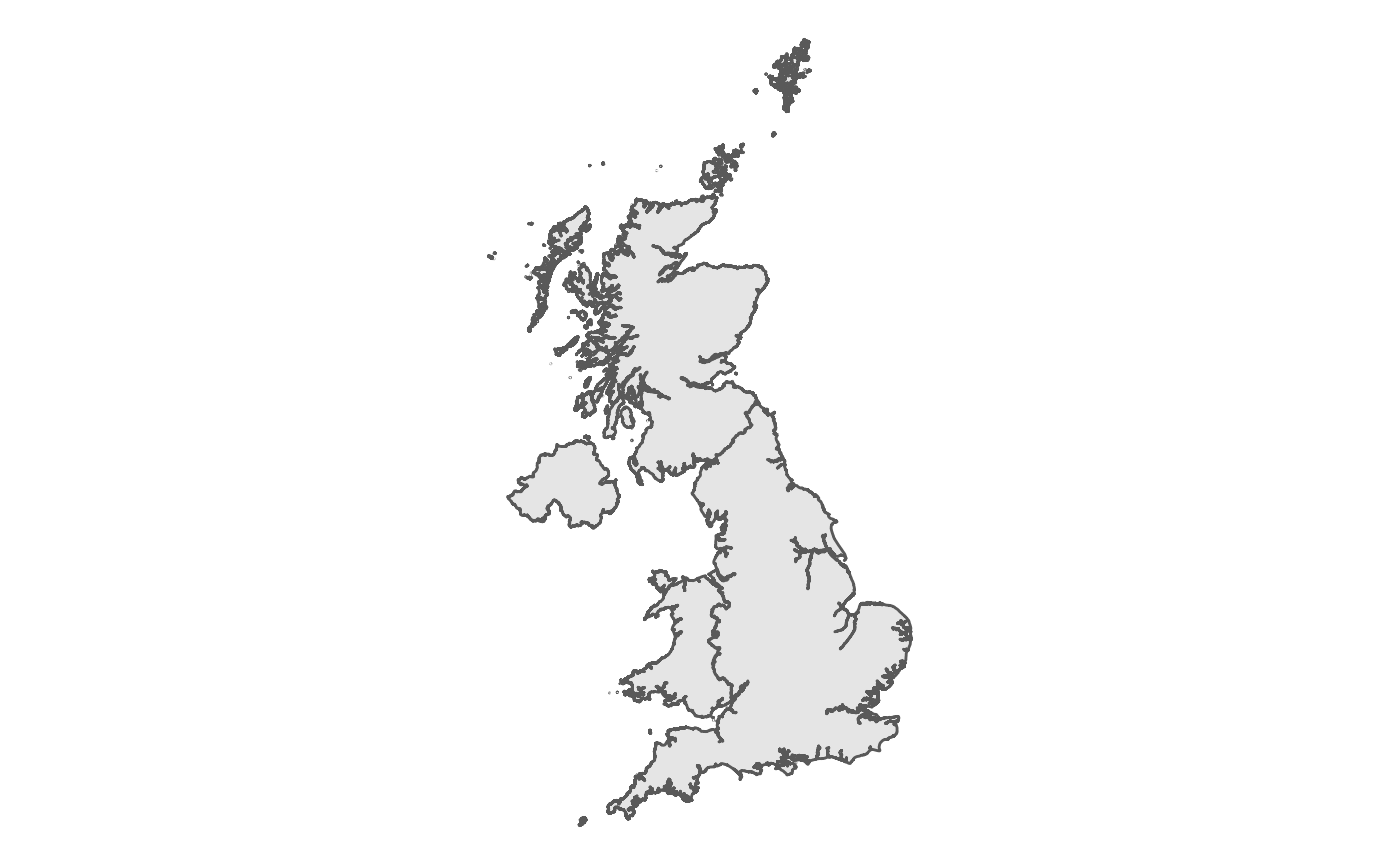
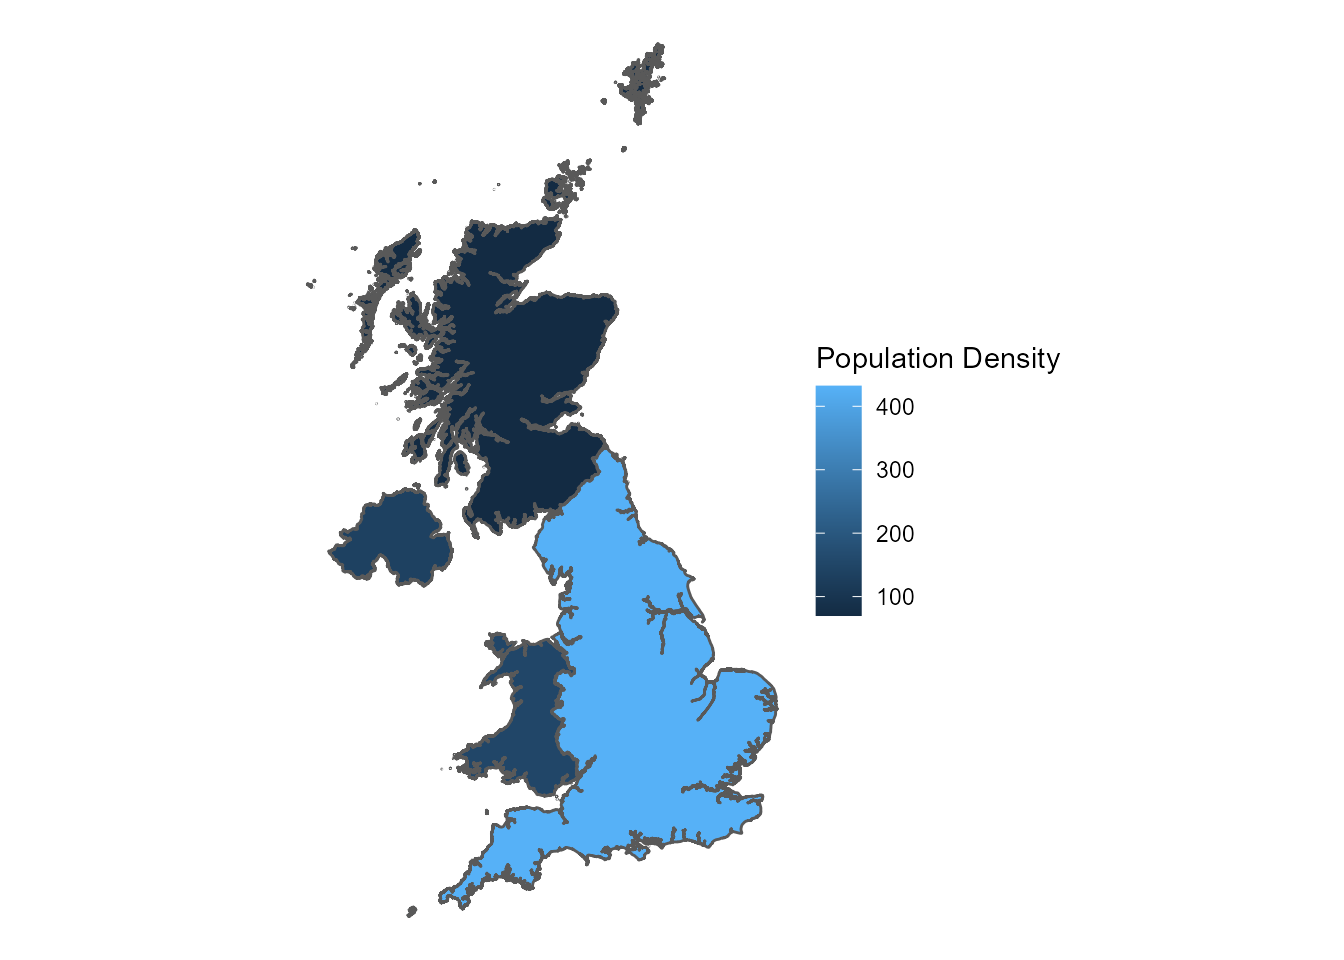
UPDATE: drawing maps vignette

Changed region(s): [[0.25, 0.1561, 0.7812, 0.9676], [0.5312, 0.0312, 0.5938, 0.1249], [0.4375, 0.0312, 0.5, 0.1249]]

diff --git a/docs/articles/maps.html b/docs/articles/maps.html
@@ -5,13 +5,13 @@
 <meta charset="utf-8">
 <meta http-equiv="X-UA-Compatible" content="IE=edge">
 <meta name="viewport" content="width=device-width, initial-scale=1.0">
-<title>Using `ukgeog` to draw maps • ukgeog</title>
+<title>Using `ukgeog` to draw choropleth maps • ukgeog</title>
 <!-- jquery --><script src="https://cdnjs.cloudflare.com/ajax/libs/jquery/3.4.1/jquery.min.js" integrity="sha256-CSXorXvZcTkaix6Yvo6HppcZGetbYMGWSFlBw8HfCJo=" crossorigin="anonymous"></script><!-- Bootstrap --><link rel="stylesheet" href="https://cdnjs.cloudflare.com/ajax/libs/twitter-bootstrap/3.4.1/css/bootstrap.min.css" integrity="sha256-bZLfwXAP04zRMK2BjiO8iu9pf4FbLqX6zitd+tIvLhE=" crossorigin="anonymous">
 <script src="https://cdnjs.cloudflare.com/ajax/libs/twitter-bootstrap/3.4.1/js/bootstrap.min.js" integrity="sha256-nuL8/2cJ5NDSSwnKD8VqreErSWHtnEP9E7AySL+1ev4=" crossorigin="anonymous"></script><!-- bootstrap-toc --><link rel="stylesheet" href="../bootstrap-toc.css">
 <script src="../bootstrap-toc.js"></script><!-- Font Awesome icons --><link rel="stylesheet" href="https://cdnjs.cloudflare.com/ajax/libs/font-awesome/5.12.1/css/all.min.css" integrity="sha256-mmgLkCYLUQbXn0B1SRqzHar6dCnv9oZFPEC1g1cwlkk=" crossorigin="anonymous">
 <link rel="stylesheet" href="https://cdnjs.cloudflare.com/ajax/libs/font-awesome/5.12.1/css/v4-shims.min.css" integrity="sha256-wZjR52fzng1pJHwx4aV2AO3yyTOXrcDW7jBpJtTwVxw=" crossorigin="anonymous">
 <!-- clipboard.js --><script src="https://cdnjs.cloudflare.com/ajax/libs/clipboard.js/2.0.6/clipboard.min.js" integrity="sha256-inc5kl9MA1hkeYUt+EC3BhlIgyp/2jDIyBLS6k3UxPI=" crossorigin="anonymous"></script><!-- headroom.js --><script src="https://cdnjs.cloudflare.com/ajax/libs/headroom/0.11.0/headroom.min.js" integrity="sha256-AsUX4SJE1+yuDu5+mAVzJbuYNPHj/WroHuZ8Ir/CkE0=" crossorigin="anonymous"></script><script src="https://cdnjs.cloudflare.com/ajax/libs/headroom/0.11.0/jQuery.headroom.min.js" integrity="sha256-ZX/yNShbjqsohH1k95liqY9Gd8uOiE1S4vZc+9KQ1K4=" crossorigin="anonymous"></script><!-- pkgdown --><link href="../pkgdown.css" rel="stylesheet">
-<script src="../pkgdown.js"></script><meta property="og:title" content="Using `ukgeog` to draw maps">
+<script src="../pkgdown.js"></script><meta property="og:title" content="Using `ukgeog` to draw choropleth maps">
 <meta property="og:description" content="ukgeog">
 <!-- mathjax --><script src="https://cdnjs.cloudflare.com/ajax/libs/mathjax/2.7.5/MathJax.js" integrity="sha256-nvJJv9wWKEm88qvoQl9ekL2J+k/RWIsaSScxxlsrv8k=" crossorigin="anonymous"></script><script src="https://cdnjs.cloudflare.com/ajax/libs/mathjax/2.7.5/config/TeX-AMS-MML_HTMLorMML.js" integrity="sha256-84DKXVJXs0/F8OTMzX4UR909+jtl4G7SPypPavF+GfA=" crossorigin="anonymous"></script><!--[if lt IE 9]>
 <script src="https://oss.maxcdn.com/html5shiv/3.7.3/html5shiv.min.js"></script>
@@ -57,7 +57,7 @@
       <a href="../articles/boundary-changes.html">LA Boundary Changes</a>
     </li>
     <li>
-      <a href="../articles/maps.html">Using `ukgeog` to draw maps</a>
+      <a href="../articles/maps.html">Using `ukgeog` to draw choropleth maps</a>
     </li>
     <li>
       <a href="../articles/ons-hierarchy.html">ONS Hierarchy of UK Statistical Geographies</a>
@@ -89,7 +89,7 @@
 <script src="maps_files/anchor-sections-1.0/anchor-sections.js"></script><div class="row">
   <div class="col-md-9 contents">
     <div class="page-header toc-ignore">
-      <h1 data-toc-skip>Using <code>ukgeog</code> to draw maps</h1>
+      <h1 data-toc-skip>Using <code>ukgeog</code> to draw choropleth maps</h1>
             
       
       <small class="dont-index">Source: <a href="https://github.com/l-hodge/ukgeog/blob/master/vignettes/maps.Rmd"><code>vignettes/maps.Rmd</code></a></small>
@@ -99,48 +99,70 @@
 
     
     
-<p><code>ukgeog</code> provides several <code>read</code> functions to provide the ability to easily download official spatial data sets of the UK as simple feature (<code>sf</code>) objects. A full list of the geographies available is provided <a href="https://l-hodge.github.io/uk-geog/">here</a>. Here we demonstrate how this makes it easy to make choropleth maps with base R, as well as with popular packages such as <code>ggplot2</code>, <code>tmap</code> and <code>leaflet.</code></p>
+<p><code>ukgeog</code> provides several <code>read_*</code> functions to provide the ability to easily download official spatial data sets of the UK as simple feature (<code>sf</code>) objects. A full list of the geographies available is provided <a href="https://l-hodge.github.io/uk-geog/">here</a>. Here we demonstrate how this makes it easy to make choropleth maps with base R, as well as with popular packages such as <code>ggplot2</code>, <code>tmap</code> and <code>leaflet.</code></p>
 <p>First we need to read in a spatial dataset as a simple feature (<code>sf</code>), here we choose to make use of <code>read_admin</code> to read in the countries that make up the UK:</p>
 <div class="sourceCode" id="cb1"><pre class="downlit">
-<span class="kw"><a href="https://rdrr.io/r/base/library.html">library</a></span><span class="op">(</span><span class="va"><a href="https://l-hodge.github.io/uk-geog/">ukgeog</a></span><span class="op">)</span>
+<span class="kw"><a href="https://rdrr.io/r/base/library.html">library</a></span><span class="op">(</span><span class="va"><a href="https://l-hodge.github.io/ukgeog/">ukgeog</a></span><span class="op">)</span>
 
 <span class="va">sf</span> <span class="op">&lt;-</span> <span class="fu"><a href="../reference/read_admin.html">read_admin</a></span><span class="op">(</span><span class="st">"NAT"</span><span class="op">)</span></pre></div>
-<p>Note: <code>crs = 4326</code> (the default) provides the most capatibility with other functions</p>
-<div id="drawing-maps-with-your-simple-feature" class="section level2">
+<p>Note: <code>crs = 4326</code> (the default) provides the most compatibility with other functions.</p>
+<div id="drawing-a-choropleth-map-with-a-simple-feature" class="section level2">
 <h2 class="hasAnchor">
-<a href="#drawing-maps-with-your-simple-feature" class="anchor"></a>Drawing maps with your simple feature</h2>
-<div id="plot-" class="section level3">
-<h3 class="hasAnchor">
-<a href="#plot-" class="anchor"></a>-plot-</h3>
+<a href="#drawing-a-choropleth-map-with-a-simple-feature" class="anchor"></a>Drawing a choropleth map with a simple feature</h2>
+<p>We first merge in mid-2019 population density estimates from the <a href="https://www.ons.gov.uk/peoplepopulationandcommunity/populationandmigration/populationestimates/bulletins/annualmidyearpopulationestimates/mid2019estimates#population-growth-in-england-wales-scotland-and-northern-ireland">ONS</a>, so we have something to plot:</p>
 <div class="sourceCode" id="cb2"><pre class="downlit">
-<span class="fu"><a href="https://rdrr.io/r/graphics/plot.default.html">plot</a></span><span class="op">(</span><span class="va">sf</span><span class="op">$</span><span class="va">geometry</span><span class="op">)</span></pre></div>
-<p><img src="maps_files/figure-html/plotexample-1.png" width="700"></p>
-</div>
-<div id="ggplot2-" class="section level3">
+<span class="va">population</span> <span class="op">&lt;-</span> <span class="fu"><a href="https://rdrr.io/r/base/data.frame.html">data.frame</a></span><span class="op">(</span>
+                country <span class="op">=</span> <span class="fu"><a href="https://rdrr.io/r/base/c.html">c</a></span><span class="op">(</span><span class="st">"England"</span>, <span class="st">"Wales"</span>, <span class="st">"Scotland"</span>, <span class="st">"Northern Ireland"</span><span class="op">)</span>,
+                `Population Density` <span class="op">=</span> <span class="fu"><a href="https://rdrr.io/r/base/numeric.html">as.numeric</a></span><span class="op">(</span><span class="fu"><a href="https://rdrr.io/r/base/c.html">c</a></span><span class="op">(</span><span class="st">"432"</span>, <span class="st">"152"</span>, <span class="st">"70"</span>, <span class="st">"137"</span><span class="op">)</span><span class="op">)</span>,
+                check.names <span class="op">=</span> <span class="cn">FALSE</span>
+              <span class="op">)</span>
+
+<span class="va">sf</span> <span class="op">&lt;-</span> <span class="fu">dplyr</span><span class="fu">::</span><span class="fu"><a href="https://dplyr.tidyverse.org/reference/mutate-joins.html">left_join</a></span><span class="op">(</span><span class="va">sf</span>, <span class="va">population</span>, by <span class="op">=</span> <span class="st">"country"</span><span class="op">)</span></pre></div>
+<p>Now we plot some choropleth maps with both base R and some easier to use packages:</p>
+<div id="base-r-plot" class="section level3">
 <h3 class="hasAnchor">
-<a href="#ggplot2-" class="anchor"></a>-ggplot2-</h3>
+<a href="#base-r-plot" class="anchor"></a>base R (<code>plot</code>)</h3>
 <div class="sourceCode" id="cb3"><pre class="downlit">
+<span class="va">cols</span> <span class="op">&lt;-</span> <span class="fu"><a href="https://rdrr.io/r/base/c.html">c</a></span><span class="op">(</span><span class="st">"#EDF8E9"</span>, <span class="st">"#BAE4B3"</span>, <span class="st">"#74C476"</span>, <span class="st">"#31A354"</span>, <span class="st">"#006D2C"</span><span class="op">)</span>
+<span class="va">brks</span> <span class="op">&lt;-</span> <span class="fu"><a href="https://rdrr.io/r/base/c.html">c</a></span><span class="op">(</span><span class="fl">0</span>, <span class="fl">100</span>, <span class="fl">200</span>, <span class="fl">300</span>, <span class="fl">400</span>, <span class="fl">500</span><span class="op">)</span>
+<span class="va">col</span> <span class="op">&lt;-</span> <span class="va">cols</span><span class="op">[</span><span class="fu"><a href="https://rdrr.io/r/base/findInterval.html">findInterval</a></span><span class="op">(</span><span class="va">sf</span><span class="op">$</span><span class="va">`Population Density`</span>, vec <span class="op">=</span> <span class="va">brks</span><span class="op">)</span><span class="op">]</span>
+
+<span class="fu"><a href="https://rdrr.io/r/graphics/plot.default.html">plot</a></span><span class="op">(</span><span class="va">sf</span><span class="op">$</span><span class="va">geometry</span>, col <span class="op">=</span> <span class="va">col</span><span class="op">)</span>
+<span class="fu"><a href="https://rdrr.io/r/graphics/legend.html">legend</a></span><span class="op">(</span><span class="st">"bottomleft"</span>, 
+       legend <span class="op">=</span> <span class="fu"><a href="https://rdrr.io/r/base/levels.html">levels</a></span><span class="op">(</span><span class="fu"><a href="https://rdrr.io/r/base/cut.html">cut</a></span><span class="op">(</span><span class="va">sf</span><span class="op">$</span><span class="va">`Population Density`</span>, <span class="va">brks</span><span class="op">)</span><span class="op">)</span>, 
+       fill <span class="op">=</span> <span class="va">cols</span>, 
+       title <span class="op">=</span> <span class="st">"Population Density"</span><span class="op">)</span></pre></div>
+<p><img src="maps_files/figure-html/plotexample-1.png" width="672"></p>
+</div>
+<div id="ggplot2" class="section level3">
+<h3 class="hasAnchor">
+<a href="#ggplot2" class="anchor"></a><code>ggplot2</code>
+</h3>
+<div class="sourceCode" id="cb4"><pre class="downlit">
 <span class="kw"><a href="https://rdrr.io/r/base/library.html">library</a></span><span class="op">(</span><span class="va"><a href="http://ggplot2.tidyverse.org">ggplot2</a></span><span class="op">)</span>
 
 <span class="fu"><a href="https://ggplot2.tidyverse.org/reference/ggplot.html">ggplot</a></span><span class="op">(</span><span class="va">sf</span><span class="op">)</span> <span class="op">+</span> 
-  <span class="fu"><a href="https://ggplot2.tidyverse.org/reference/ggsf.html">geom_sf</a></span><span class="op">(</span><span class="op">)</span> <span class="op">+</span>
+  <span class="fu"><a href="https://ggplot2.tidyverse.org/reference/ggsf.html">geom_sf</a></span><span class="op">(</span><span class="fu"><a href="https://ggplot2.tidyverse.org/reference/aes.html">aes</a></span><span class="op">(</span>fill <span class="op">=</span> <span class="va">`Population Density`</span><span class="op">)</span><span class="op">)</span> <span class="op">+</span>
   <span class="fu"><a href="https://ggplot2.tidyverse.org/reference/ggtheme.html">theme_void</a></span><span class="op">(</span><span class="op">)</span></pre></div>
-<p><img src="maps_files/figure-html/ggplotexample-1.png" width="700"></p>
+<p><img src="maps_files/figure-html/ggplotexample-1.png" width="672"></p>
 </div>
-<div id="tmap-" class="section level3">
+<div id="tmap" class="section level3">
 <h3 class="hasAnchor">
-<a href="#tmap-" class="anchor"></a>-tmap-</h3>
-<div class="sourceCode" id="cb4"><pre class="downlit">
+<a href="#tmap" class="anchor"></a><code>tmap</code>
+</h3>
+<div class="sourceCode" id="cb5"><pre class="downlit">
 <span class="kw"><a href="https://rdrr.io/r/base/library.html">library</a></span><span class="op">(</span><span class="va"><a href="https://github.com/mtennekes/tmap">tmap</a></span><span class="op">)</span>
 
-<span class="fu"><a href="https://rdrr.io/pkg/tmap/man/qtm.html">qtm</a></span><span class="op">(</span><span class="va">sf</span><span class="op">)</span>
+<span class="fu"><a href="https://rdrr.io/pkg/tmap/man/qtm.html">qtm</a></span><span class="op">(</span><span class="va">sf</span>, fill <span class="op">=</span> <span class="st">"Population Density"</span><span class="op">)</span> <span class="op">+</span>
+  <span class="fu"><a href="https://rdrr.io/pkg/tmap/man/tm_layout.html">tm_legend</a></span><span class="op">(</span>legend.position <span class="op">=</span> <span class="fu"><a href="https://rdrr.io/r/base/c.html">c</a></span><span class="op">(</span><span class="st">"left"</span>, <span class="st">"top"</span><span class="op">)</span><span class="op">)</span>
 <span class="co">#&gt; Linking to GEOS 3.8.0, GDAL 3.0.4, PROJ 6.3.1</span></pre></div>
-<p><img src="maps_files/figure-html/tmapexample-1.png" width="700"></p>
+<p><img src="maps_files/figure-html/tmapexample-1.png" width="672"></p>
 </div>
-<div id="leaflet-" class="section level3">
+<div id="leaflet" class="section level3">
 <h3 class="hasAnchor">
-<a href="#leaflet-" class="anchor"></a>-leaflet-</h3>
-<div class="sourceCode" id="cb5"><pre class="downlit">
+<a href="#leaflet" class="anchor"></a><code>leaflet</code>
+</h3>
+<div class="sourceCode" id="cb6"><pre class="downlit">
 <span class="kw"><a href="https://rdrr.io/r/base/library.html">library</a></span><span class="op">(</span><span class="va"><a href="http://rstudio.github.io/leaflet/">leaflet</a></span><span class="op">)</span>
 
 <span class="fu"><a href="https://rdrr.io/pkg/leaflet/man/leaflet.html">leaflet</a></span><span class="op">(</span><span class="va">sf</span><span class="op">)</span> <span class="op">%&gt;%</span> 

diff --git a/docs/reference/read_census.html b/docs/reference/read_census.html
@@ -98,7 +98,7 @@
       <a href="../articles/boundary-changes.html">LA Boundary Changes</a>
     </li>
     <li>
-      <a href="../articles/maps.html">Using `ukgeog` to draw maps</a>
+      <a href="../articles/maps.html">Using `ukgeog` to draw choropleth maps</a>
     </li>
     <li>
       <a href="../articles/ons-hierarchy.html">ONS Hierarchy of UK Statistical Geographies</a>
@@ -188,28 +188,28 @@
 #&gt; bbox:           xmin: -6.418524 ymin: 49.86474 xmax: 1.762942 ymax: 55.81107
 #&gt; geographic CRS: WGS 84
 #&gt; First 10 features:
-#&gt;    objectid        cd                       nm                msoa11nmw
-#&gt; 1         1 E02000001       City of London 001       City of London 001
-#&gt; 2         2 E02000002 Barking and Dagenham 001 Barking and Dagenham 001
-#&gt; 3         3 E02000003 Barking and Dagenham 002 Barking and Dagenham 002
-#&gt; 4         4 E02000004 Barking and Dagenham 003 Barking and Dagenham 003
-#&gt; 5         5 E02000005 Barking and Dagenham 004 Barking and Dagenham 004
-#&gt; 6         6 E02000007 Barking and Dagenham 006 Barking and Dagenham 006
-#&gt; 7         7 E02000008 Barking and Dagenham 007 Barking and Dagenham 007
-#&gt; 8         8 E02000009 Barking and Dagenham 008 Barking and Dagenham 008
-#&gt; 9         9 E02000010 Barking and Dagenham 009 Barking and Dagenham 009
-#&gt; 10       10 E02000011 Barking and Dagenham 010 Barking and Dagenham 010
-#&gt;    st_area.shape. st_length.shape. country                       geometry
-#&gt; 1         2905399         9024.060 England MULTIPOLYGON (((-0.09675966...
-#&gt; 2         2165634         8152.698 England MULTIPOLYGON (((0.1481122 5...
-#&gt; 3         2143565         9118.449 England MULTIPOLYGON (((0.150653 51...
-#&gt; 4         2490215         8207.610 England MULTIPOLYGON (((0.1851074 5...
-#&gt; 5         1186180         6964.962 England MULTIPOLYGON (((0.1499051 5...
-#&gt; 6         1733916         6773.957 England MULTIPOLYGON (((0.1600451 5...
-#&gt; 7         1419309         8427.797 England MULTIPOLYGON (((0.136055 51...
-#&gt; 8          965622         5958.160 England MULTIPOLYGON (((0.1169839 5...
-#&gt; 9         1120326         7651.809 England MULTIPOLYGON (((0.156482 51...
-#&gt; 10        1602157         7770.863 England MULTIPOLYGON (((0.1656968 5...</div><div class='input'>
+#&gt;    objectd        cd                       nm                  ms11nmw st_r_s_
+#&gt; 1        1 E02000001       City of London 001       City of London 001 2905399
+#&gt; 2        2 E02000002 Barking and Dagenham 001 Barking and Dagenham 001 2165634
+#&gt; 3        3 E02000003 Barking and Dagenham 002 Barking and Dagenham 002 2143565
+#&gt; 4        4 E02000004 Barking and Dagenham 003 Barking and Dagenham 003 2490215
+#&gt; 5        5 E02000005 Barking and Dagenham 004 Barking and Dagenham 004 1186180
+#&gt; 6        6 E02000007 Barking and Dagenham 006 Barking and Dagenham 006 1733916
+#&gt; 7        7 E02000008 Barking and Dagenham 007 Barking and Dagenham 007 1419309
+#&gt; 8        8 E02000009 Barking and Dagenham 008 Barking and Dagenham 008  965622
+#&gt; 9        9 E02000010 Barking and Dagenham 009 Barking and Dagenham 009 1120326
+#&gt; 10      10 E02000011 Barking and Dagenham 010 Barking and Dagenham 010 1602157
+#&gt;     st_ln__ country                       geometry
+#&gt; 1  9024.060 England MULTIPOLYGON (((-0.09675966...
+#&gt; 2  8152.698 England MULTIPOLYGON (((0.1481122 5...
+#&gt; 3  9118.449 England MULTIPOLYGON (((0.150653 51...
+#&gt; 4  8207.610 England MULTIPOLYGON (((0.1851074 5...
+#&gt; 5  6964.962 England MULTIPOLYGON (((0.1499051 5...
+#&gt; 6  6773.957 England MULTIPOLYGON (((0.1600451 5...
+#&gt; 7  8427.797 England MULTIPOLYGON (((0.136055 51...
+#&gt; 8  5958.160 England MULTIPOLYGON (((0.1169839 5...
+#&gt; 9  7651.809 England MULTIPOLYGON (((0.156482 51...
+#&gt; 10 7770.863 England MULTIPOLYGON (((0.1656968 5...</div><div class='input'>
 <span class='kw'>if</span> <span class='op'>(</span><span class='cn'>FALSE</span><span class='op'>)</span> <span class='op'>{</span>
 <span class='fu'>read_census</span><span class='op'>(</span><span class='st'>"OA"</span>, nations <span class='op'>=</span> <span class='fu'><a href='https://rdrr.io/r/base/c.html'>c</a></span><span class='op'>(</span><span class='st'>"E"</span><span class='op'>)</span><span class='op'>)</span>
 <span class='op'>}</span>

diff --git a/docs/index.html b/docs/index.html
@@ -59,7 +59,7 @@
       <a href="articles/boundary-changes.html">LA Boundary Changes</a>
     </li>
     <li>
-      <a href="articles/maps.html">Using `ukgeog` to draw maps</a>
+      <a href="articles/maps.html">Using `ukgeog` to draw choropleth maps</a>
     </li>
     <li>
       <a href="articles/ons-hierarchy.html">ONS Hierarchy of UK Statistical Geographies</a>
@@ -111,7 +111,7 @@
 <h2 class="hasAnchor">
 <a href="#basic-usage" class="anchor"></a>Basic Usage</h2>
 <div class="sourceCode" id="cb2"><pre class="downlit">
-<span class="kw"><a href="https://rdrr.io/r/base/library.html">library</a></span><span class="op">(</span><span class="va"><a href="https://l-hodge.github.io/uk-geog/">ukgeog</a></span><span class="op">)</span>
+<span class="kw"><a href="https://rdrr.io/r/base/library.html">library</a></span><span class="op">(</span><span class="va"><a href="https://l-hodge.github.io/ukgeog/">ukgeog</a></span><span class="op">)</span>
 
 <span class="co"># Read in simple feature data frame of the countries that make up the UK </span>
 <span class="va">sf</span> <span class="op">&lt;-</span> <span class="fu"><a href="reference/read_admin.html">read_admin</a></span><span class="op">(</span><span class="st">"NAT"</span><span class="op">)</span></pre></div>

diff --git a/docs/articles/index.html b/docs/articles/index.html
@@ -97,7 +97,7 @@
       <a href="../articles/boundary-changes.html">LA Boundary Changes</a>
     </li>
     <li>
-      <a href="../articles/maps.html">Using `ukgeog` to draw maps</a>
+      <a href="../articles/maps.html">Using `ukgeog` to draw choropleth maps</a>
     </li>
     <li>
       <a href="../articles/ons-hierarchy.html">ONS Hierarchy of UK Statistical Geographies</a>
@@ -138,7 +138,7 @@
       <dl>
         <dt><a href="boundary-changes.html">LA Boundary Changes</a></dt>
         <dd></dt>
-        <dt><a href="maps.html">Using `ukgeog` to draw maps</a></dt>
+        <dt><a href="maps.html">Using `ukgeog` to draw choropleth maps</a></dt>
         <dd></dt>
         <dt><a href="ons-hierarchy.html">ONS Hierarchy of UK Statistical Geographies</a></dt>
         <dd></dt>

diff --git a/docs/reference/within_yr_lookup.html b/docs/reference/within_yr_lookup.html
@@ -101,7 +101,7 @@ Simple wrapper for `create_lookup`" />
       <a href="../articles/boundary-changes.html">LA Boundary Changes</a>
     </li>
     <li>
-      <a href="../articles/maps.html">Using `ukgeog` to draw maps</a>
+      <a href="../articles/maps.html">Using `ukgeog` to draw choropleth maps</a>
     </li>
     <li>
       <a href="../articles/ons-hierarchy.html">ONS Hierarchy of UK Statistical Geographies</a>

diff --git a/docs/reference/create_lookup.html b/docs/reference/create_lookup.html
@@ -101,7 +101,7 @@ Wrapper for `plus_year`" />
       <a href="../articles/boundary-changes.html">LA Boundary Changes</a>
     </li>
     <li>
-      <a href="../articles/maps.html">Using `ukgeog` to draw maps</a>
+      <a href="../articles/maps.html">Using `ukgeog` to draw choropleth maps</a>
     </li>
     <li>
       <a href="../articles/ons-hierarchy.html">ONS Hierarchy of UK Statistical Geographies</a>

diff --git a/docs/articles/boundary-changes.html b/docs/articles/boundary-changes.html
@@ -57,7 +57,7 @@
       <a href="../articles/boundary-changes.html">LA Boundary Changes</a>
     </li>
     <li>
-      <a href="../articles/maps.html">Using `ukgeog` to draw maps</a>
+      <a href="../articles/maps.html">Using `ukgeog` to draw choropleth maps</a>
     </li>
     <li>
       <a href="../articles/ons-hierarchy.html">ONS Hierarchy of UK Statistical Geographies</a>

diff --git a/docs/articles/ons-hierarchy.html b/docs/articles/ons-hierarchy.html
@@ -57,7 +57,7 @@
       <a href="../articles/boundary-changes.html">LA Boundary Changes</a>
     </li>
     <li>
-      <a href="../articles/maps.html">Using `ukgeog` to draw maps</a>
+      <a href="../articles/maps.html">Using `ukgeog` to draw choropleth maps</a>
     </li>
     <li>
       <a href="../articles/ons-hierarchy.html">ONS Hierarchy of UK Statistical Geographies</a>

diff --git a/docs/news/index.html b/docs/news/index.html
@@ -97,7 +97,7 @@
       <a href="../articles/boundary-changes.html">LA Boundary Changes</a>
     </li>
     <li>
-      <a href="../articles/maps.html">Using `ukgeog` to draw maps</a>
+      <a href="../articles/maps.html">Using `ukgeog` to draw choropleth maps</a>
     </li>
     <li>
       <a href="../articles/ons-hierarchy.html">ONS Hierarchy of UK Statistical Geographies</a>

diff --git a/docs/reference/BASE_2011.html b/docs/reference/BASE_2011.html
@@ -98,7 +98,7 @@
       <a href="../articles/boundary-changes.html">LA Boundary Changes</a>
     </li>
     <li>
-      <a href="../articles/maps.html">Using `ukgeog` to draw maps</a>
+      <a href="../articles/maps.html">Using `ukgeog` to draw choropleth maps</a>
     </li>
     <li>
       <a href="../articles/ons-hierarchy.html">ONS Hierarchy of UK Statistical Geographies</a>

diff --git a/docs/reference/LAD_1112.html b/docs/reference/LAD_1112.html
@@ -98,7 +98,7 @@
       <a href="../articles/boundary-changes.html">LA Boundary Changes</a>
     </li>
     <li>
-      <a href="../articles/maps.html">Using `ukgeog` to draw maps</a>
+      <a href="../articles/maps.html">Using `ukgeog` to draw choropleth maps</a>
     </li>
     <li>
       <a href="../articles/ons-hierarchy.html">ONS Hierarchy of UK Statistical Geographies</a>

diff --git a/docs/reference/LAD_1213.html b/docs/reference/LAD_1213.html
@@ -98,7 +98,7 @@
       <a href="../articles/boundary-changes.html">LA Boundary Changes</a>
     </li>
     <li>
-      <a href="../articles/maps.html">Using `ukgeog` to draw maps</a>
+      <a href="../articles/maps.html">Using `ukgeog` to draw choropleth maps</a>
     </li>
     <li>
       <a href="../articles/ons-hierarchy.html">ONS Hierarchy of UK Statistical Geographies</a>
